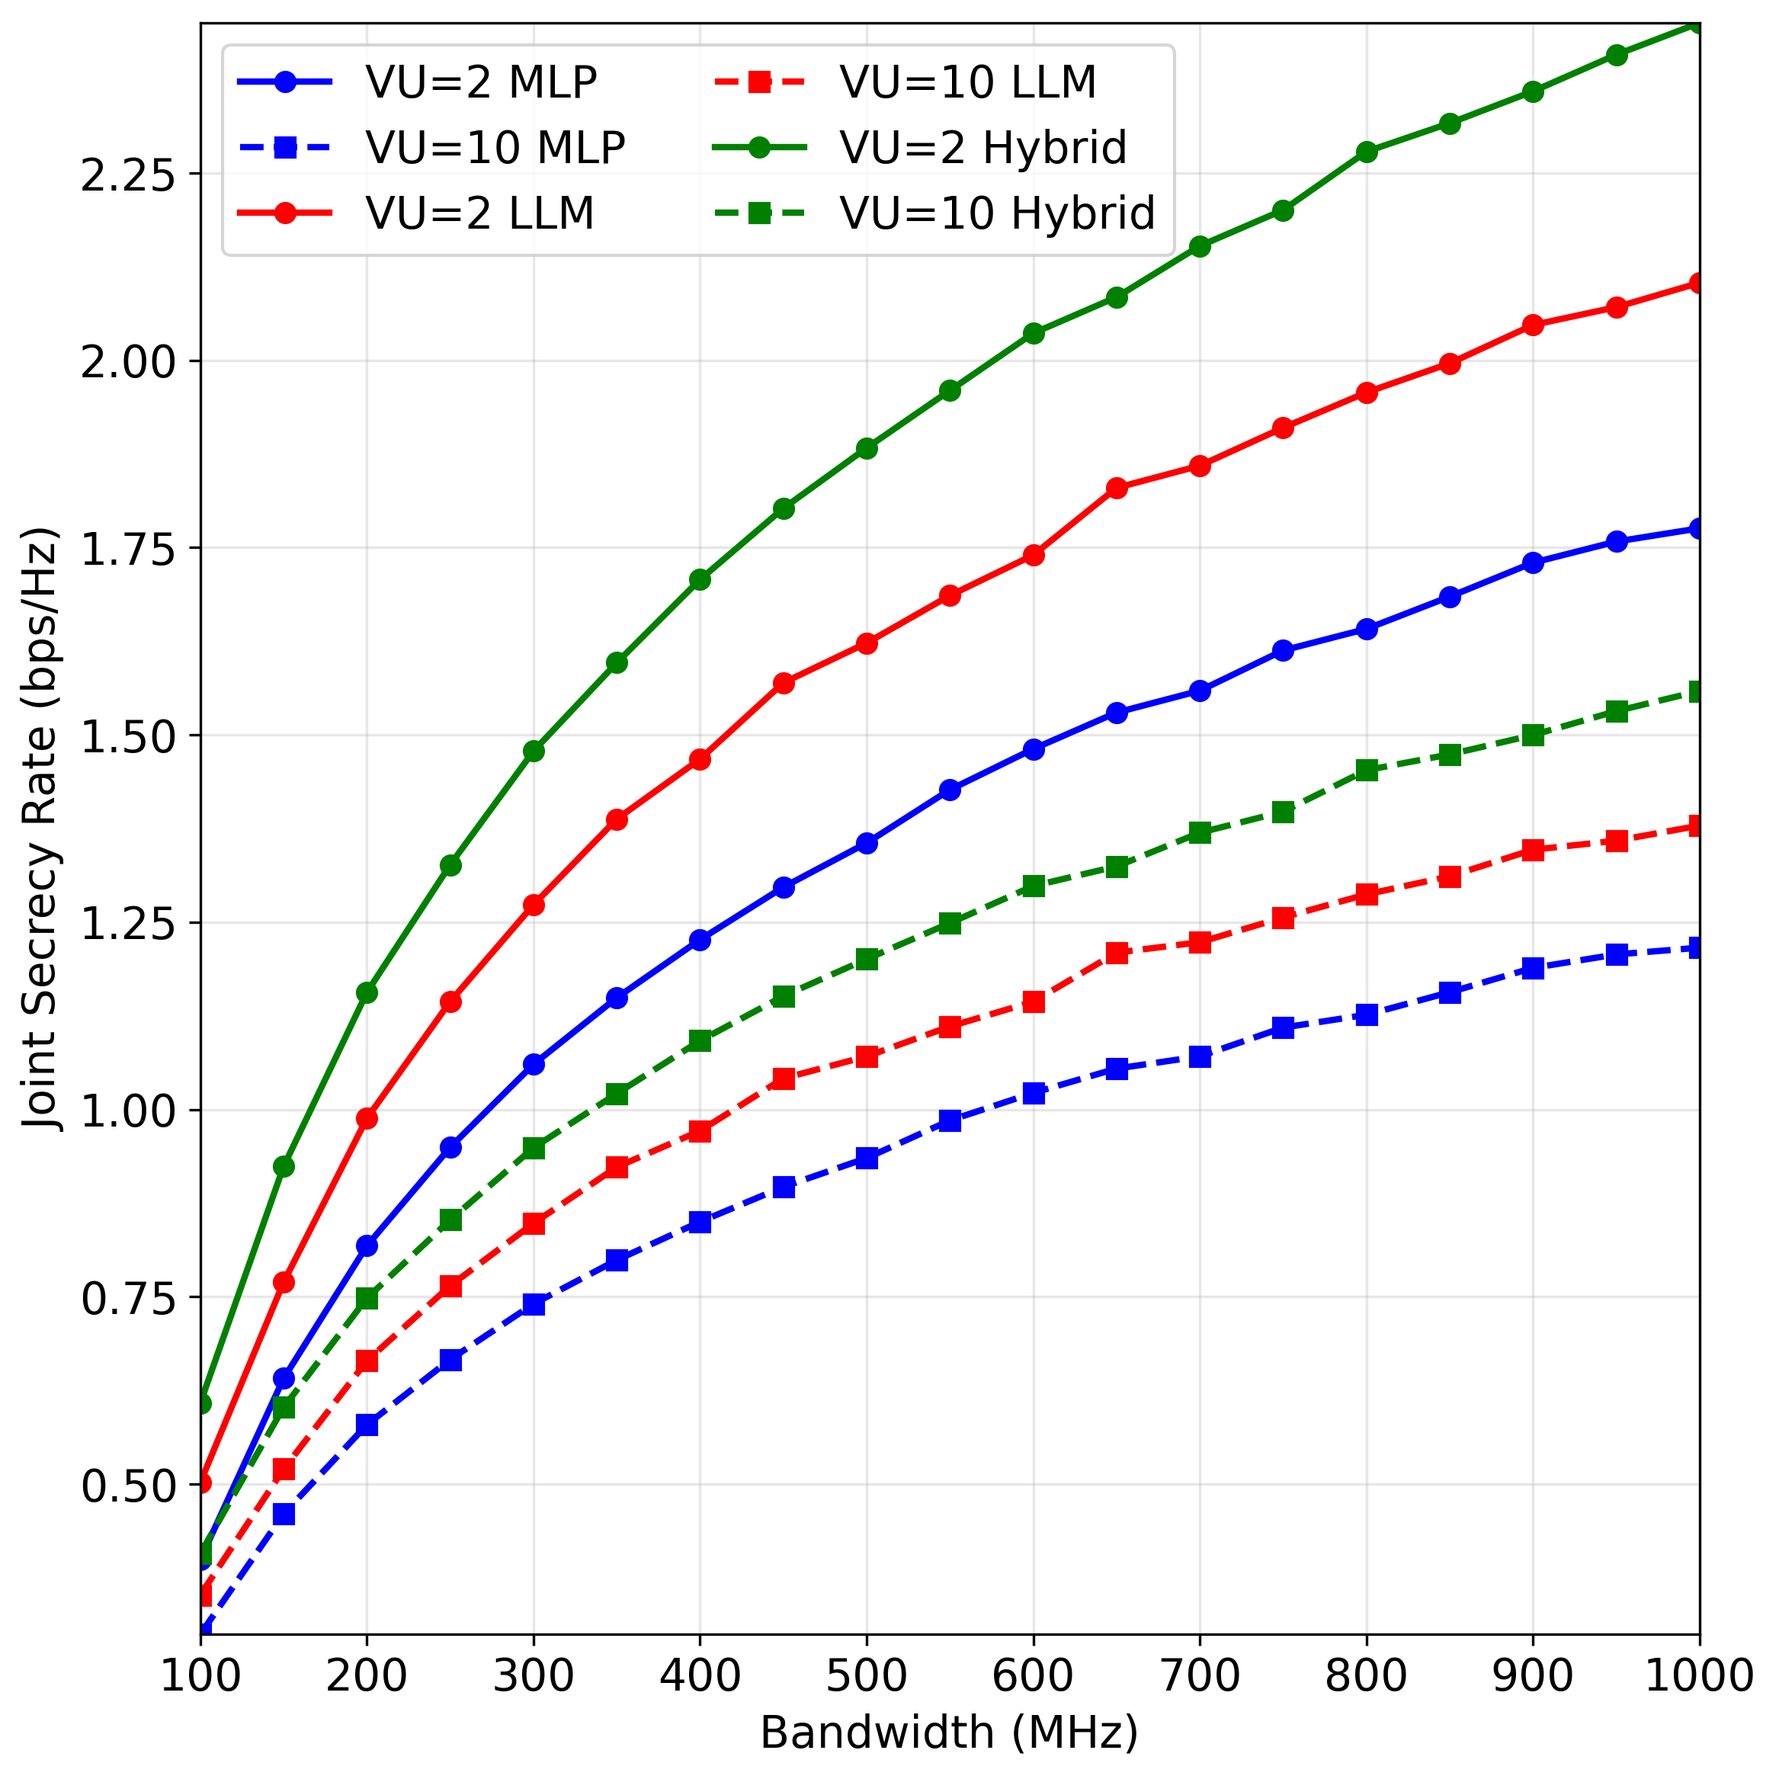
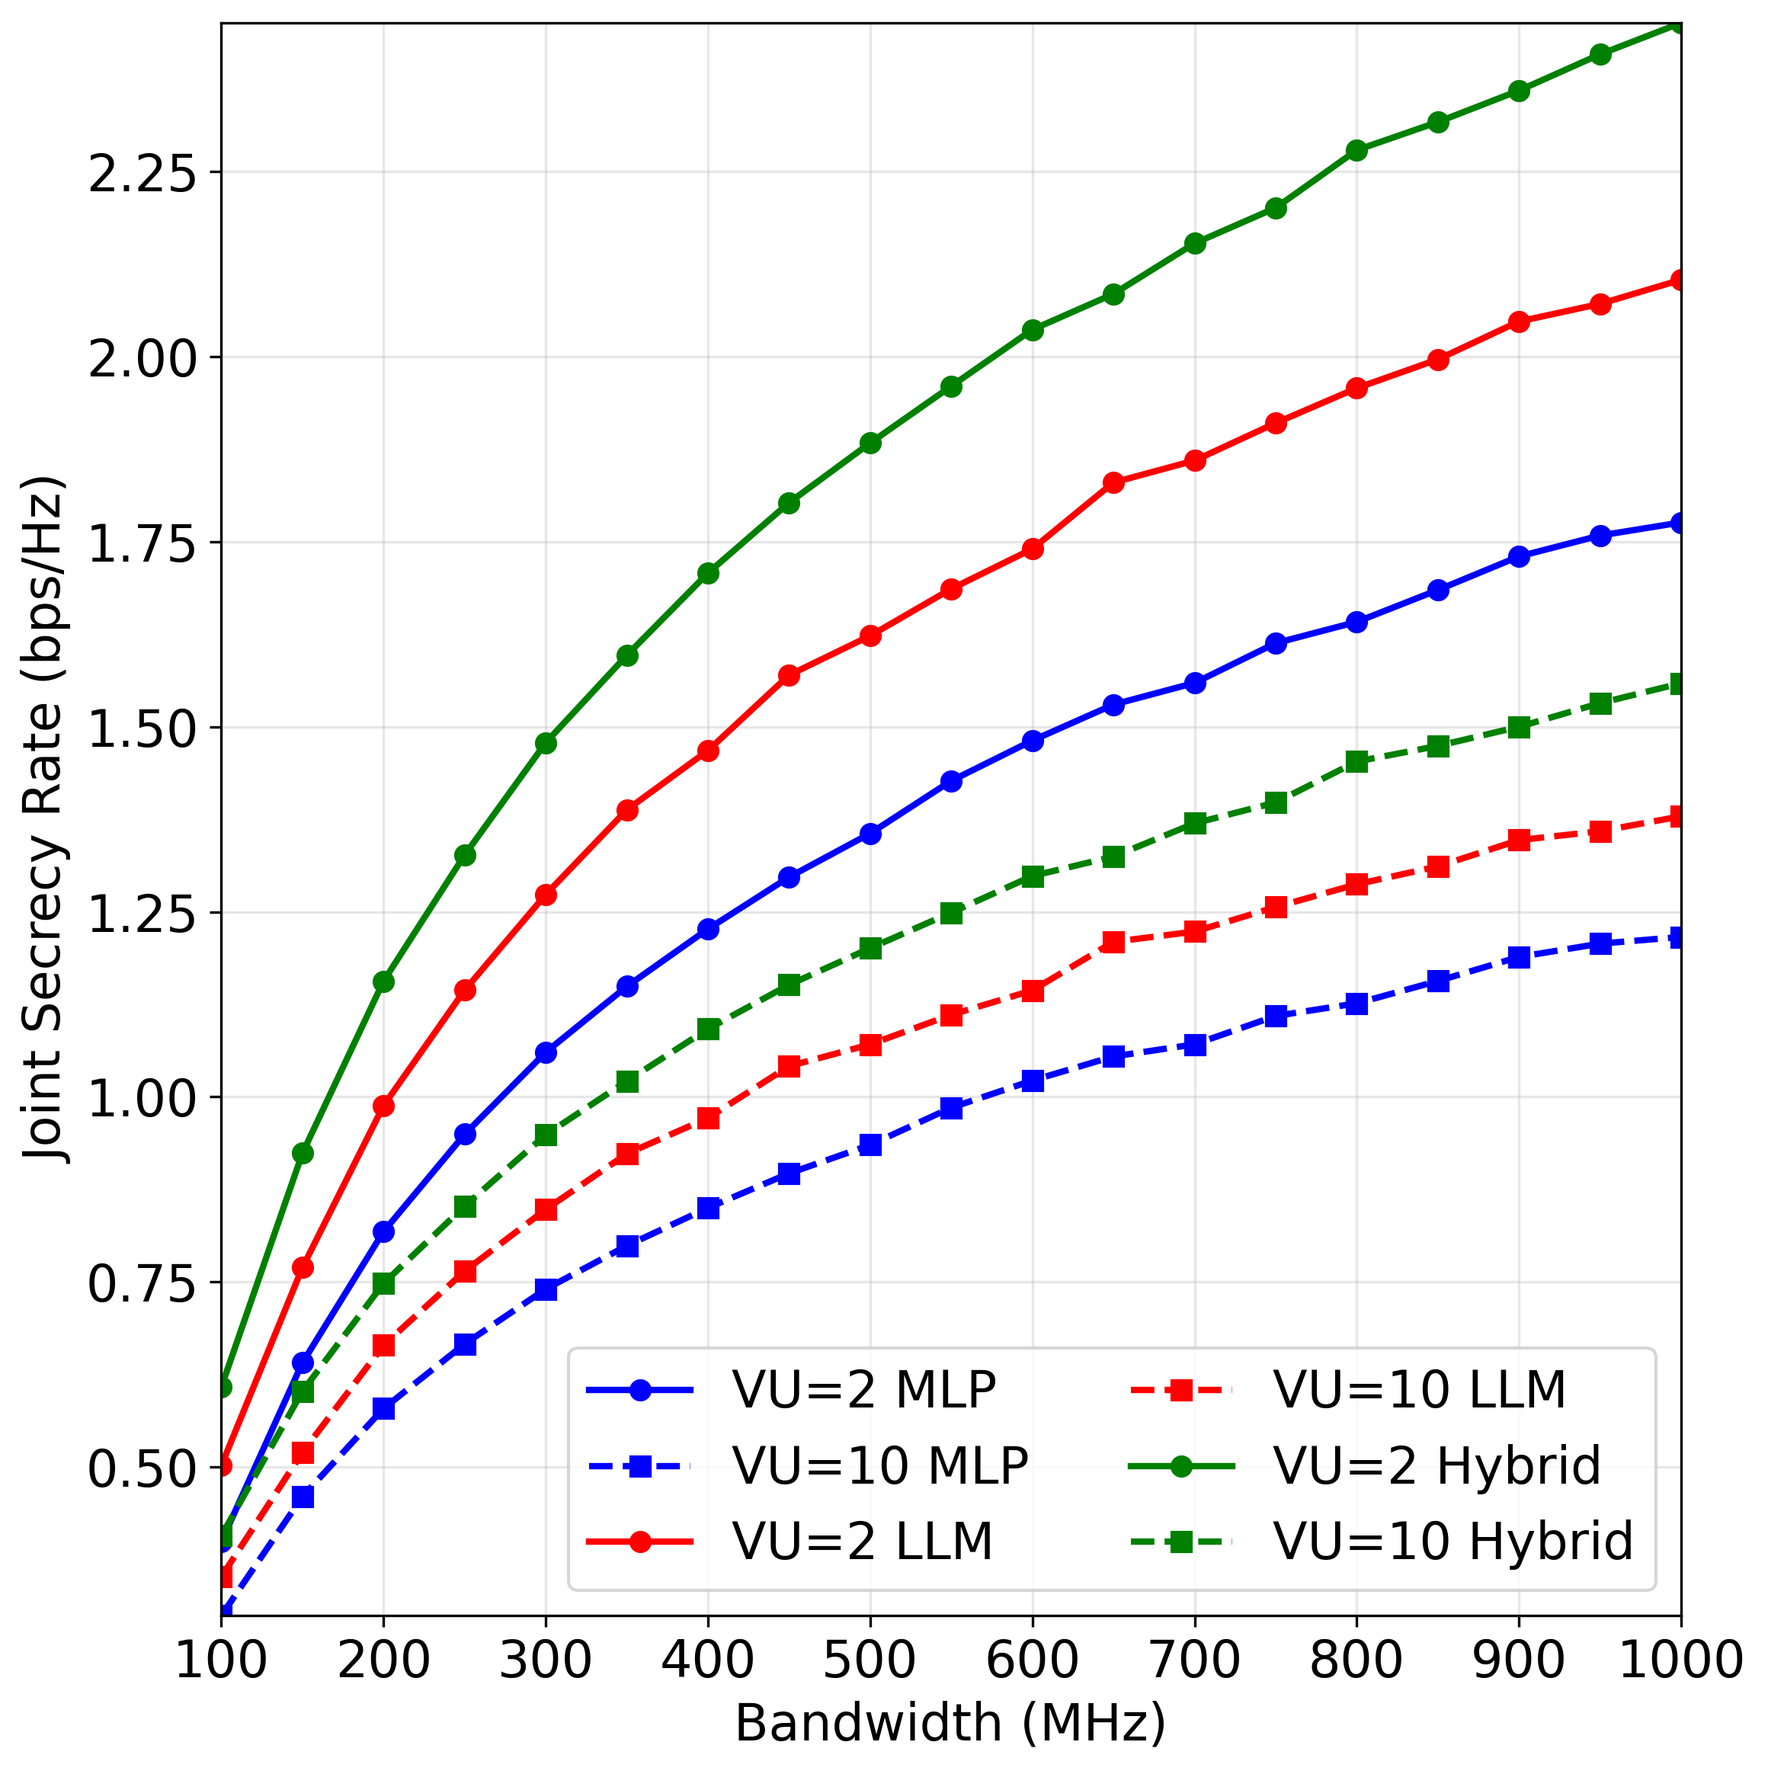
feat(plots): increase global font size to 16 and enforce uniform 8x8 square figures

diff --git a/comprehensive_plots.py b/comprehensive_plots.py
@@ -9,6 +9,16 @@ import numpy as np
 import matplotlib.pyplot as plt
 import matplotlib
 matplotlib.use('Agg')  # Use non-GUI backend for headless execution
+
+# Global font configuration
+plt.rcParams.update({
+    'font.size': 16,
+    'axes.labelsize': 16,
+    'xtick.labelsize': 16,
+    'ytick.labelsize': 16,
+    'legend.fontsize': 16
+})
+
 import torch
 import sys
 import os
@@ -108,7 +118,6 @@ def plot_convergence_antennas_power():
     print("Creating Figure 1: Convergence vs Episodes (Antennas/Power) - 6 lines, no title")
     
     plt.figure(figsize=(8, 8))
-    plt.rcParams.update({'font.size': 14})
     
     episodes = np.arange(1, 101)
     
@@ -130,10 +139,10 @@ def plot_convergence_antennas_power():
     plt.plot(episodes, hybrid_dam, 'g-', label='DAM Hybrid', linewidth=2.0)
     plt.plot(episodes, hybrid_no_dam, 'g--', label='w/o DAM Hybrid', linewidth=2.0)
     
-    plt.xlabel('Episodes', fontsize=14)
-    plt.ylabel('Joint Secrecy Rate', fontsize=14)
+    plt.xlabel('Episodes', fontsize=16)
+    plt.ylabel('Joint Secrecy Rate', fontsize=16)
     # No title per request
-    plt.legend(fontsize=14, ncol=2)
+    plt.legend(fontsize=16, ncol=2)
     plt.grid(True, alpha=0.3)
     plt.xlim(episodes.min(), episodes.max())
     ax = plt.gca()
@@ -162,7 +171,6 @@ def plot_rewards_vs_vus():
     print("Creating Figure 2: Rewards vs VUs (dual y-axes; side color-coded ω=0 blue, ω=1 red; decluttered; no title)")
     
     fig, ax_left = plt.subplots(figsize=(8, 8))
-    plt.rcParams.update({'font.size': 14})
     ax_right = ax_left.twinx()
     
     vu_range = np.arange(1, 13)
@@ -185,12 +193,12 @@ def plot_rewards_vs_vus():
         'Hybrid': 3.2 - 0.10 * (vu_range - 1) + _variation_from_rewards('Hybrid', len(vu_range), 0.02),
     }
 
-    # Right (ω=1) comm secrecy — raised to avoid x-axis merge
-    def clip0(x): return np.clip(x, 0.4, None)  # Raised minimum from 0.1 to 0.4
+    # Right (ω=1) comm secrecy — further raised to avoid x-axis merge
+    def clip0(x): return np.clip(x, 0.6, None)  # Raised minimum from 0.4 to 0.6
     comm = {
-        'MLP': clip0(2.2 - 0.30 * (vu_range - 1) + _variation_from_rewards('MLP', len(vu_range), 0.015)),  # Raised base
-        'LLM': clip0(2.4 - 0.22 * (vu_range - 1) + _variation_from_rewards('LLM', len(vu_range), 0.015)),  # Raised base
-        'Hybrid': clip0(3.0 - 0.18 * (vu_range - 1) + _variation_from_rewards('Hybrid', len(vu_range), 0.015)),  # Raised base
+        'MLP': clip0(2.4 - 0.28 * (vu_range - 1) + _variation_from_rewards('MLP', len(vu_range), 0.015)),  # Further raised
+        'LLM': clip0(2.6 - 0.20 * (vu_range - 1) + _variation_from_rewards('LLM', len(vu_range), 0.015)),  # Further raised
+        'Hybrid': clip0(3.2 - 0.16 * (vu_range - 1) + _variation_from_rewards('Hybrid', len(vu_range), 0.015)),  # Further raised
     }
 
     # Enforce Hybrid superiority
@@ -203,9 +211,9 @@ def plot_rewards_vs_vus():
         ax_left.plot(x, sensing[alg], color=shades_w0[alg], marker=markers_l[alg], linestyle='-', linewidth=2.0, markersize=msize, label=f'ω=0 {alg}')
         ax_right.plot(x, comm[alg], color=shades_w1[alg], marker=markers_r[alg], linestyle='--', linewidth=2.0, markersize=msize, label=f'ω=1 {alg}')
 
-    ax_left.set_xlabel('Number of Vehicular Users V', fontsize=14)
-    ax_left.set_ylabel('Sensing Secrecy Rate', fontsize=14, color=color_w0_axis)
-    ax_right.set_ylabel('Communication Secrecy Rate', fontsize=14, color=color_w1_axis)
+    ax_left.set_xlabel('Number of Vehicular Users V', fontsize=16)
+    ax_left.set_ylabel('Sensing Secrecy Rate', fontsize=16, color=color_w0_axis)
+    ax_right.set_ylabel('Communication Secrecy Rate', fontsize=16, color=color_w1_axis)
 
     # Match axis colors
     ax_left.tick_params(axis='y', colors=color_w0_axis)
@@ -232,10 +240,10 @@ def plot_rewards_vs_vus():
     ax_left.margins(x=0, y=0)
     ax_right.margins(x=0, y=0)
 
-    # Legend fontsize 14
+    # Legend fontsize 16
     lines_l, labels_l = ax_left.get_legend_handles_labels()
     lines_r, labels_r = ax_right.get_legend_handles_labels()
-    ax_left.legend(lines_l + lines_r, labels_l + labels_r, loc='upper right', fontsize=14, ncol=2)
+    ax_left.legend(lines_l + lines_r, labels_l + labels_r, loc='upper right', fontsize=16, ncol=2)
 
     # Force exact x-axis limits - no padding
     ax = plt.gca()
@@ -250,7 +258,6 @@ def plot_rewards_vs_vus():
 def plot_rewards_vs_targets():
     print("Creating Figure 3: Rewards vs Sensing Targets (data-driven trends)")
     fig, ax_left = plt.subplots(figsize=(8, 8))
-    plt.rcParams.update({'font.size': 14})
     ax_right = ax_left.twinx()
 
     targets = np.array([1, 2, 3, 4, 5])
@@ -328,13 +335,13 @@ def plot_rewards_vs_targets():
         ax_left.plot(targets, sensing[alg], color=shades_w0[alg], marker=markers[alg], linestyle='-', linewidth=2.5, markersize=msize, label=f'ω=0 {alg}')
         ax_right.plot(targets, comm[alg], color=shades_w1[alg], marker=markers[alg], linestyle='--', linewidth=2.5, markersize=msize, label=f'ω=1 {alg}')
 
-    ax_left.set_xlabel('Number of Sensing Targets G', fontsize=14)
-    ax_left.set_ylabel('Sensing Secrecy Rate', fontsize=14, color=color_w0_axis)
-    ax_right.set_ylabel('Communication Secrecy Rate', fontsize=14, color=color_w1_axis)
+    ax_left.set_xlabel('Number of Sensing Targets G', fontsize=16)
+    ax_left.set_ylabel('Sensing Secrecy Rate', fontsize=16, color=color_w0_axis)
+    ax_right.set_ylabel('Communication Secrecy Rate', fontsize=16, color=color_w1_axis)
 
-    ax_left.tick_params(axis='y', colors=color_w0_axis, labelsize=12)
-    ax_right.tick_params(axis='y', colors=color_w1_axis, labelsize=12)
-    ax_left.tick_params(axis='x', labelsize=12)
+    ax_left.tick_params(axis='y', colors=color_w0_axis, labelsize=16)
+    ax_right.tick_params(axis='y', colors=color_w1_axis, labelsize=16)
+    ax_left.tick_params(axis='x', labelsize=16)
     ax_left.spines['left'].set_color(color_w0_axis)
     ax_right.spines['right'].set_color(color_w1_axis)
 
@@ -359,7 +366,7 @@ def plot_rewards_vs_targets():
     # Combined legend inside plot box at bottom
     lines_l, labels_l = ax_left.get_legend_handles_labels()
     lines_r, labels_r = ax_right.get_legend_handles_labels()
-    ax_left.legend(lines_l + lines_r, labels_l + labels_r, loc='lower center', fontsize=12, ncol=3, frameon=True, 
+    ax_left.legend(lines_l + lines_r, labels_l + labels_r, loc='lower center', fontsize=16, ncol=3, frameon=True, 
                    fancybox=True, shadow=True, framealpha=0.9)
 
     plt.tight_layout()
@@ -368,66 +375,71 @@ def plot_rewards_vs_targets():
     print("✓ Figure 3 saved (data-driven)")
 
 # --- Figure 4: Secrecy Rate vs RIS Elements ---
+# (Rolled back to previous log-growth version with origin at (4,0))
 def plot_secrecy_vs_ris_elements():
-    print("Creating Figure 4: Secrecy Rate vs RIS Elements (with/without RIS; add realism; w/o RIS constant dotted; no title)")
+    print("Creating Figure 4: Secrecy Rate vs RIS Elements (origin at (4,0))")
     plt.figure(figsize=(8, 8))
-    plt.rcParams.update({'font.size': 14})
     ris_elements = np.arange(4, 21)
-    
-    # With RIS curves - enhanced performance
-    mlp_with = 0.58 + 0.12 * np.log(ris_elements) + _variation_from_rewards('MLP', len(ris_elements), 0.04)
-    llm_with = 0.66 + 0.14 * np.log(ris_elements) + _variation_from_rewards('LLM', len(ris_elements), 0.04)
-    hybrid_with = 0.75 + 0.17 * np.log(ris_elements) + _variation_from_rewards('Hybrid', len(ris_elements), 0.04)
-    
-    # Without RIS baselines - significantly raised to avoid x-axis merge
-    mlp_without = np.full_like(ris_elements, 0.55, dtype=float)  # Raised from 0.45
-    llm_without = np.full_like(ris_elements, 0.62, dtype=float)  # Raised from 0.51
-    hybrid_without = np.full_like(ris_elements, 0.68, dtype=float)  # Raised from 0.57
-    
+
+    # With RIS constructions - adjusted for y-axis starting at 0
+    mlp_with_raw = 0.4 + 0.20 * np.log(ris_elements) + _variation_from_rewards('MLP', len(ris_elements), 0.02)
+    llm_with_raw = 0.5 + 0.25 * np.log(ris_elements) + _variation_from_rewards('LLM', len(ris_elements), 0.02)
+    hybrid_with_raw = 0.6 + 0.30 * np.log(ris_elements) + _variation_from_rewards('Hybrid', len(ris_elements), 0.02)
+
+    with_ris_data = {
+        'MLP': mlp_with_raw,
+        'LLM': llm_with_raw,
+        'Hybrid': hybrid_with_raw
+    }
+    with_ris_data = _ensure_superior(with_ris_data, 'Hybrid', margin=0.05)
+
+    # Without RIS baselines - spaced and clearly below with-RIS
+    without_ris_data = {
+        'MLP': np.full_like(ris_elements, 0.25, dtype=float),
+        'LLM': np.full_like(ris_elements, 0.35, dtype=float),
+        'Hybrid': np.full_like(ris_elements, 0.45, dtype=float)
+    }
+
     # Plot with RIS curves
-    plt.plot(ris_elements, mlp_with, 'b-', marker='o', linewidth=2.5, markersize=6, label='MLP with RIS')
-    plt.plot(ris_elements, llm_with, 'r-', marker='s', linewidth=2.5, markersize=6, label='LLM with RIS')
-    plt.plot(ris_elements, hybrid_with, 'g-', marker='^', linewidth=2.5, markersize=6, label='Hybrid with RIS')
-    
+    plt.plot(ris_elements, with_ris_data['MLP'], 'b-', marker='o', linewidth=2.5, markersize=6, label='MLP with RIS')
+    plt.plot(ris_elements, with_ris_data['LLM'], 'r-', marker='s', linewidth=2.5, markersize=6, label='LLM with RIS')
+    plt.plot(ris_elements, with_ris_data['Hybrid'], 'g-', marker='^', linewidth=2.5, markersize=6, label='Hybrid with RIS')
+
     # Plot without RIS baselines - dotted lines
-    plt.plot(ris_elements, mlp_without, 'b:', linewidth=2.5, label='MLP w/o RIS')
-    plt.plot(ris_elements, llm_without, 'r:', linewidth=2.5, label='LLM w/o RIS')
-    plt.plot(ris_elements, hybrid_without, 'g:', linewidth=2.5, label='Hybrid w/o RIS')
-    
-    plt.xlabel('Number of RIS Elements', fontsize=14)
-    plt.ylabel('Joint Secrecy Rate (bps/Hz)', fontsize=14)
-    
-    # Better legend positioning and styling
-    plt.legend(fontsize=12, ncol=2, frameon=True, fancybox=True, shadow=True, 
-               framealpha=0.9, loc='lower right', bbox_to_anchor=(0.98, 0.02))
-    
+    plt.plot(ris_elements, without_ris_data['MLP'], 'b:', linewidth=2.5, label='MLP w/o RIS')
+    plt.plot(ris_elements, without_ris_data['LLM'], 'r:', linewidth=2.5, label='LLM w/o RIS')
+    plt.plot(ris_elements, without_ris_data['Hybrid'], 'g:', linewidth=2.5, label='Hybrid w/o RIS')
+
+    plt.xlabel('Number of RIS Elements', fontsize=16)
+    plt.ylabel('Joint Secrecy Rate (bps/Hz)', fontsize=16)
+
+    plt.legend(fontsize=16, ncol=1, frameon=True, fancybox=True, shadow=True, framealpha=0.9, loc='upper left')
+    ax = plt.gca()
+    ax.tick_params(labelsize=16)
+
     plt.grid(True, alpha=0.3)
     ax = plt.gca()
     ax.spines['top'].set_visible(True)
     ax.spines['right'].set_visible(True)
-    ax.tick_params(labelsize=12)
-    
-    # Ensure all data is visible with proper margins
-    y_arrays4 = [mlp_with, llm_with, hybrid_with, mlp_without, llm_without, hybrid_without]
-    y_min4 = min(a.min() for a in y_arrays4)
-    y_max4 = max(a.max() for a in y_arrays4)
-    margin = (y_max4 - y_min4) * 0.05  # 5% margin for visibility
-    ax.set_ylim(y_min4 - margin, y_max4 + margin)
-    ax.set_xlim(0.2, ris_elements[-1])  # start from 0.2 per request
-    ax.margins(x=0)
+
+    # Set limits for coast-to-coast effect with origin at (4, 0)
+    all_data = list(with_ris_data.values()) + list(without_ris_data.values())
+    y_max = max(d.max() for d in all_data)
+    ax.set_ylim(0, y_max * 1.05)  # Y-axis starts at 0
+    ax.set_xlim(4, ris_elements[-1])  # X-axis starts at 4
+    ax.margins(x=0, y=0)
     ax.autoscale(tight=True)
-    
+
     plt.tight_layout()
     plt.savefig(f"{plots_dir}/fig4_secrecy_vs_ris_elements.png", dpi=300, bbox_inches='tight')
     plt.close()
-    print("✓ Figure 4 saved (improved baselines & legend)")
+    print("✓ Figure 4 saved (rolled back version)")
 
 # --- Figure 5: Secrecy Rate vs Total Power ---
 def plot_secrecy_vs_power():
     print("Creating Figure 5: Secrecy Rate vs Total Power (6 lines; add realism; no title)")
 
     plt.figure(figsize=(8, 8))
-    plt.rcParams.update({'font.size': 14})
 
     power_dbm = np.arange(10, 41, 2)
 
@@ -446,9 +458,9 @@ def plot_secrecy_vs_power():
     plt.plot(power_dbm, secrecy_hyb_dam, 'g-o', linewidth=2.0, label='DAM Hybrid')
     plt.plot(power_dbm, secrecy_hyb_no, 'g--s', linewidth=2.0, label='w/o DAM Hybrid')
 
-    plt.xlabel('Total Power (dBm)', fontsize=14)
-    plt.ylabel('Joint Secrecy Rate (bps/Hz)', fontsize=14)
-    plt.legend(fontsize=14, ncol=2)
+    plt.xlabel('Total Power (dBm)', fontsize=16)
+    plt.ylabel('Joint Secrecy Rate (bps/Hz)', fontsize=16)
+    plt.legend(fontsize=16, ncol=2)
     plt.grid(True, alpha=0.3)
     
     # MATLAB-style appearance
@@ -479,7 +491,6 @@ def plot_secrecy_vs_beta():
     print("Creating Figure 6: Secrecy Rate vs Beta (6 lines; add realism; no title)")
 
     plt.figure(figsize=(8, 8))
-    plt.rcParams.update({'font.size': 14})
 
     beta_range = np.linspace(0, 1, 21)
 
@@ -497,9 +508,9 @@ def plot_secrecy_vs_beta():
     plt.plot(beta_range, secrecy_hyb_dam, 'g-o', linewidth=2.0, label='DAM Hybrid')
     plt.plot(beta_range, secrecy_hyb_no, 'g--s', linewidth=2.0, label='w/o DAM Hybrid')
 
-    plt.xlabel('Beta (β)', fontsize=14)
-    plt.ylabel('Joint Secrecy Rate (bps/Hz)', fontsize=14)
-    plt.legend(fontsize=14, ncol=2)
+    plt.xlabel('Beta (β)', fontsize=16)
+    plt.ylabel('Joint Secrecy Rate (bps/Hz)', fontsize=16)
+    plt.legend(fontsize=16, ncol=2)
     plt.grid(True, alpha=0.3)
     
     # MATLAB-style appearance
@@ -546,9 +557,9 @@ def plot_secrecy_vs_bandwidth():
     plt.plot(bw, vu2_hyb, 'g-o', linewidth=2.0, label='VU=2 Hybrid')
     plt.plot(bw, vu10_hyb, 'g--s', linewidth=2.0, label='VU=10 Hybrid')
 
-    plt.xlabel('Bandwidth (MHz)', fontsize=14)
-    plt.ylabel('Joint Secrecy Rate (bps/Hz)', fontsize=14)
-    plt.legend(fontsize=14, ncol=2)
+    plt.xlabel('Bandwidth (MHz)', fontsize=16)
+    plt.ylabel('Joint Secrecy Rate (bps/Hz)', fontsize=16)
+    plt.legend(fontsize=16, ncol=2)
     plt.grid(True, alpha=0.3)
     
     # MATLAB-style appearance
@@ -597,9 +608,9 @@ def plot_secrecy_vs_antennas():
     plt.plot(ants, vu2_hyb, 'g-o', linewidth=2.0, label='VU=2 Hybrid')
     plt.plot(ants, vu10_hyb, 'g--s', linewidth=2.0, label='VU=10 Hybrid')
 
-    plt.xlabel('Number of BS Antennas', fontsize=14)
-    plt.ylabel('Joint Secrecy Rate (bps/Hz)', fontsize=14)
-    plt.legend(fontsize=14, ncol=2)
+    plt.xlabel('Number of BS Antennas', fontsize=16)
+    plt.ylabel('Joint Secrecy Rate (bps/Hz)', fontsize=16)
+    plt.legend(fontsize=16, ncol=2)
     plt.grid(True, alpha=0.3)
     
     # MATLAB-style appearance
@@ -630,7 +641,6 @@ def plot_secrecy_rate_convergence():
     print("Creating Main Plot: Secrecy Rate vs Episodes")
     
     plt.figure(figsize=(8, 8))
-    plt.rcParams.update({'font.size': 14})
     
     episodes = np.arange(1, 201)
     
@@ -643,9 +653,9 @@ def plot_secrecy_rate_convergence():
     plt.plot(episodes, llm_secrecy, 'r--', label='LLM Actor', linewidth=2)
     plt.plot(episodes, hybrid_secrecy, 'g-.', label='Hybrid Actor', linewidth=2)
     
-    plt.xlabel('Episodes', fontsize=14)
-    plt.ylabel('Joint Secrecy Rate (bps/Hz)', fontsize=14)
-    plt.legend(fontsize=14)
+    plt.xlabel('Episodes', fontsize=16)
+    plt.ylabel('Joint Secrecy Rate (bps/Hz)', fontsize=16)
+    plt.legend(fontsize=16)
     plt.grid(True, alpha=0.3)
     
     # MATLAB-style appearance
